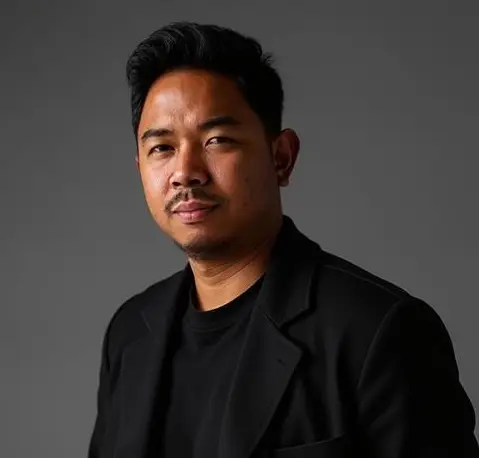
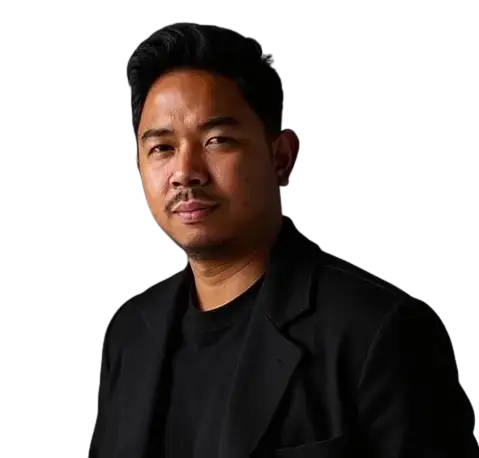
optimized img

diff --git a/src/components/Hero.tsx b/src/components/Hero.tsx
@@ -59,12 +59,12 @@ export default function Home() {
           <div className="relative flex flex-col items-center max-w-sm w-full">
             <div className="relative h-54 w-60 sm:h-52 sm:w-52 md:h-70 md:w-80 overflow-hidden z-20 group mx-auto">
               <img
-                src="/ronnel-alt-removebg.png"
+                src="/ronnel-alt-removebg.webp"
                 alt="Profile photo"
                 className="w-full h-full object-cover transition-opacity duration-500 ease-in-out group-hover:opacity-0 group-focus-within:opacity-0"
               />
               <img
-                src="/ronnel.png"
+                src="/ronnel.webp"
                 alt="Alternate profile photo"
                 className="absolute inset-0 w-full h-full object-cover opacity-0 transition-opacity duration-500 ease-in-out group-hover:opacity-100 group-focus-within:opacity-100"
               />

diff --git a/src/components/CTAsection.tsx b/src/components/CTAsection.tsx
@@ -76,7 +76,7 @@ export default function CTASection() {
         {/* Right: Image */}
         <div className="w-100 lg:w-1/2 flex justify-center">
           <Image
-            src="/lets-go.png"
+            src="/lets-go.webp"
             alt="Personal business idea illustration"
             width={200}
             height={200}

diff --git a/src/components/Navbar.tsx b/src/components/Navbar.tsx
@@ -14,7 +14,7 @@ export default function Navbar() {
           {/* Logo */}
           <Link href="#home" className="flex items-center relative z-10">
           <Image
-                src="/logo.png"
+                src="/logo.webp"
                 alt="Webworks logo"
                 width={130}    
                 height={0}  

diff --git a/src/components/Footer.tsx b/src/components/Footer.tsx
@@ -10,7 +10,7 @@ export default function Footer() {
           {/* Brand / About */}
           <div className="flex-col items-center">
           <Image
-                src="/logo.png"  
+                src="/logo.webp"  
                 alt="WebWorks logo"
                 width={200}     
                 height={0}
